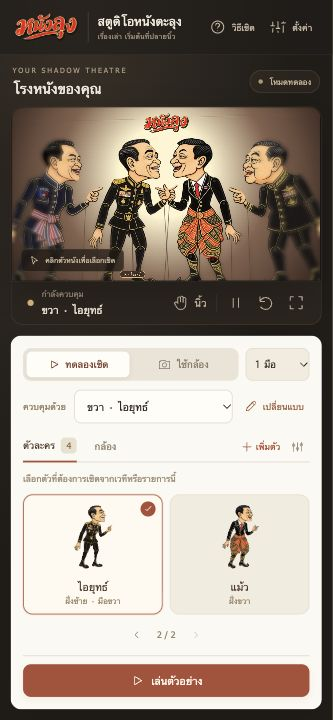
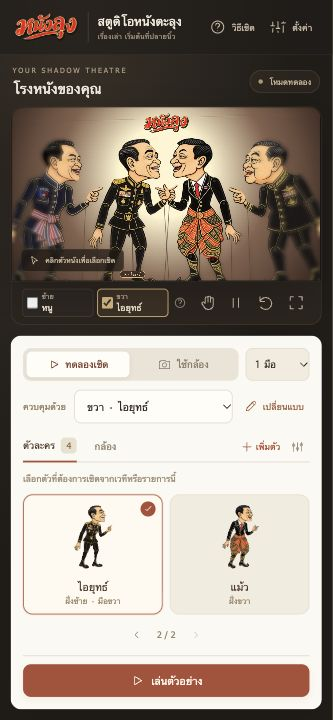
Control left and right puppets with stage toolbar checkboxes

Changed region(s): [[0.0601, 0.3972, 0.4505, 0.4583], [0.4805, 0.3972, 0.6607, 0.4583]]

diff --git a/src/studio-layout.ts b/src/studio-layout.ts
@@ -17,7 +17,10 @@ export function renderWorkspace(settings: Settings) {
         <div class="stage-paused" id="stage-paused" hidden><span>${icon("pause")} พักการเชิด</span></div>
         <button class="exit-stage" id="exit-stage">${icon("close")} ออกจากเวที</button>
       </div>
-      <div class="stage-toolbar"><button id="character-about" class="character-info" aria-label="รู้จักตัวละคร" aria-haspopup="dialog"><span class="control-dot"></span><span><small>กำลังควบคุม</small><strong id="character-name">เท่ง</strong></span>${icon("help")}</button><div class="toolbar-actions"><button id="toggle-fingers" class="text-button" aria-label="แสดงตัวควบคุมนิ้ว" aria-expanded="false" aria-controls="finger-panel">${icon("hand")}<span>นิ้ว</span></button><span class="toolbar-divider"></span><button id="pause" class="icon-button" aria-label="พักการเชิด" title="พัก / เล่นต่อ (Space)">${icon("pause")}</button><button id="reset-pose" class="icon-button" aria-label="รีเซ็ตท่าทาง" title="รีเซ็ตท่าทาง (R)">${icon("reset")}</button><button id="fullscreen" class="icon-button" aria-label="เต็มจอ" title="เต็มจอ (F)">${icon("expand")}</button></div></div>
+      <div class="stage-toolbar"><div class="stage-controls" role="group" aria-label="เลือกมือและตัวละครที่เชิด">
+        <div class="control-checks">${(["Left", "Right"] as const).map((side) => `<label class="hand-control-check" id="control-${side}-label"><input type="checkbox" id="control-${side}"/><span><small>${side === "Left" ? "ซ้าย" : "ขวา"}</small><strong id="control-${side}-name"></strong></span></label>`).join("")}</div>
+        <button id="character-about" class="icon-button control-about" aria-label="รู้จักตัวละคร" aria-haspopup="dialog">${icon("help")}</button>
+      </div><div class="toolbar-actions"><button id="toggle-fingers" class="text-button" aria-label="แสดงตัวควบคุมนิ้ว" aria-expanded="false" aria-controls="finger-panel">${icon("hand")}<span>นิ้ว</span></button><span class="toolbar-divider"></span><button id="pause" class="icon-button" aria-label="พักการเชิด" title="พัก / เล่นต่อ (Space)">${icon("pause")}</button><button id="reset-pose" class="icon-button" aria-label="รีเซ็ตท่าทาง" title="รีเซ็ตท่าทาง (R)">${icon("reset")}</button><button id="fullscreen" class="icon-button" aria-label="เต็มจอ" title="เต็มจอ (F)">${icon("expand")}</button></div></div>
       <section class="finger-panel" id="finger-panel" aria-label="ควบคุมนิ้วทั้งห้า">
         <div class="finger-panel-heading"><strong id="finger-description">ทดลองด้วยแถบเลื่อน</strong><span class="key-hint">กด <kbd>1</kbd>–<kbd>5</kbd> ค้างเพื่อทดลอง</span></div>
         <div class="finger-grid">${FINGERS.map((finger, i) => `<div class="finger-card" data-finger="${i}"><div class="finger-label"><label for="finger-${finger}">${fingerNames[i]}</label><span id="value-${i}">0%</span></div><span class="finger-action" id="action-label-${i}">${actionNames[settings.assignments[i]]}</span><div class="finger-meter"><span id="meter-${i}"></span></div><input id="finger-${finger}" class="finger-input" type="range" min="0" max="100" value="${i === 1 ? 16 : i === 2 ? 12 : 0}" aria-label="ทดลอง${fingerNames[i]}"/></div>`).join("")}</div>

diff --git a/src/main.ts b/src/main.ts
@@ -15,6 +15,7 @@ import { CameraTracker } from "./camera";
 import { StageRenderer, drawLandmarks, drawHands } from "./renderer";
 import { getCharacter, isCharacterId } from "./characters";
 import { demoPerformance } from "./performance";
+import { checkHandControl } from "./control-selection";
 import {
   HandEnsemble,
   activeHands,
@@ -188,6 +189,7 @@ function updateLabels() {
   demo = demos[settings.hand];
   settings.character = settings.characters[settings.hand];
   updateCharacter();
+  updateHandChecks();
   el<HTMLSelectElement>("hand-mode").value = settings.handMode;
   el("hand-choice-label").textContent = "ควบคุมด้วย";
   el("calibration-title").textContent =
@@ -239,9 +241,9 @@ function updateCharacter() {
   const character = getCharacter(settings.character);
   const hasActor = !!memberForHand(cast, settings.hand);
   el<HTMLButtonElement>("character-about").disabled = !hasActor;
-  el("character-name").textContent = !hasActor
-    ? "เลือกตัวบนเวที"
-    : `${settings.hand === "Left" ? "ซ้าย" : "ขวา"} · ${character.name}`;
+  el("character-about").title = hasActor
+    ? (character.fullName ?? character.name)
+    : "เลือกตัวบนเวที";
   el("accessory-control").hidden = !character.accessory;
   el("accessory-label").textContent =
     `แสดง${character.accessory?.name ?? "อุปกรณ์"}`;
@@ -671,6 +673,53 @@ function setPause(value: boolean) {
   el("stage-paused").hidden = !value;
   el("pause").innerHTML = icon(value ? "play" : "pause");
   el("pause").setAttribute("aria-label", value ? "เชิดต่อ" : "พักการเชิด");
+  updateHandChecks();
+}
+function updateHandChecks() {
+  for (const side of HAND_SIDES) {
+    const member = memberForHand(cast, side);
+    const name = member ? getCharacter(member.character).name : "เลือกตัว";
+    const input = el<HTMLInputElement>(`control-${side}`);
+    input.checked = !paused && activeHands(settings).includes(side) && !!member;
+    input.setAttribute(
+      "aria-label",
+      `เชิดมือ${side === "Left" ? "ซ้าย" : "ขวา"} · ${name}`,
+    );
+    el(`control-${side}-name`).textContent = name;
+    el(`control-${side}-label`).classList.toggle(
+      "focused",
+      settings.hand === side,
+    );
+  }
+}
+for (const side of HAND_SIDES) {
+  el(`control-${side}`).addEventListener("change", () => {
+    const result = checkHandControl(
+      cast,
+      settings,
+      side,
+      el<HTMLInputElement>(`control-${side}`).checked,
+      paused,
+    );
+    if (!result.accepted) {
+      updateHandChecks();
+      notify("เพิ่มตัวละครอีกหนึ่งตัว เพื่อเชิดสองมือพร้อมกัน");
+      return;
+    }
+    autoplay = false;
+    for (const [key, hand] of heldDemoKeys)
+      demos[hand].fingers[Number(key) - 1] = 0;
+    heldDemoKeys.clear();
+    ensemble.clear();
+    syncCastSettings();
+    for (const hand of HAND_SIDES) bindCastHand(hand);
+    setPause(result.paused);
+    save();
+    updateLabels();
+    syncDemoControls();
+    updateModeUI();
+    drawTrackingOverlay();
+  });
 }
 function syncDemoControls() {
   el<HTMLInputElement>("demo-x").value = String(demo.x * 100);

diff --git a/src/control-selection.test.ts b/src/control-selection.test.ts
@@ -1,0 +1,85 @@
+import { describe, expect, it } from "vitest";
+import { defaultSettings } from "./core";
+import { initialCast, memberForHand } from "./cast";
+import { activeHands } from "./ensemble";
+import { checkHandControl } from "./control-selection";
+
+describe("toolbar hand checkboxes", () => {
+  it("enables the second hand without changing the first actor, pose or calibration", () => {
+    const settings = defaultSettings(),
+      cast = initialCast(settings);
+    settings.profiles.Left.calibrated = true;
+    memberForHand(cast, "Right")!.pose.mouth = 0.8;
+    const before = structuredClone(cast);
+    expect(checkHandControl(cast, settings, "Left", true, false)).toEqual({
+      accepted: true,
+      paused: false,
+    });
+    expect(activeHands(settings)).toEqual(["Left", "Right"]);
+    expect(settings.hand).toBe("Left");
+    expect(cast).toEqual(before);
+    expect(settings.profiles.Left.calibrated).toBe(true);
+  });
+  it("unchecks one hand while the other continues and retains both bindings", () => {
+    const settings = defaultSettings(),
+      cast = initialCast(settings);
+    settings.handMode = "dual";
+    const before = structuredClone(cast);
+    expect(checkHandControl(cast, settings, "Right", false, false).paused).toBe(
+      false,
+    );
+    expect(activeHands(settings)).toEqual(["Left"]);
+    expect(cast).toEqual(before);
+  });
+  it("pauses when the last box is cleared and resumes only the checked hand", () => {
+    const settings = defaultSettings(),
+      cast = initialCast(settings);
+    expect(checkHandControl(cast, settings, "Right", false, false).paused).toBe(
+      true,
+    );
+    expect(checkHandControl(cast, settings, "Left", true, true).paused).toBe(
+      false,
+    );
+    expect(activeHands(settings)).toEqual(["Left"]);
+  });
+  it("assigns an unbound actor when checking a second hand", () => {
+    const settings = defaultSettings(),
+      cast = initialCast(settings);
+    cast.controls.Left = null;
+    expect(checkHandControl(cast, settings, "Left", true, false).accepted).toBe(
+      true,
+    );
+    expect(cast.controls).toEqual({
+      Left: "initial-Left",
+      Right: "initial-Right",
+    });
+    expect(settings.handMode).toBe("dual");
+  });
+  it("does not let two hands control the same actor", () => {
+    const settings = defaultSettings(),
+      cast = initialCast(settings);
+    cast.members = cast.members.filter(
+      (member) => member.id === cast.controls.Right,
+    );
+    cast.controls.Left = null;
+    const before = structuredClone({ settings, cast });
+    expect(checkHandControl(cast, settings, "Left", true, false)).toEqual({
+      accepted: false,
+      paused: false,
+    });
+    expect({ settings, cast }).toEqual(before);
+  });
+  it("can transfer a single paused actor to the other hand", () => {
+    const settings = defaultSettings(),
+      cast = initialCast(settings);
+    cast.members = cast.members.filter(
+      (member) => member.id === cast.controls.Right,
+    );
+    cast.controls.Left = null;
+    expect(checkHandControl(cast, settings, "Left", true, true).accepted).toBe(
+      true,
+    );
+    expect(cast.controls).toEqual({ Left: "initial-Right", Right: null });
+    expect(activeHands(settings)).toEqual(["Left"]);
+  });
+});

diff --git a/src/style.css b/src/style.css
@@ -3227,6 +3227,120 @@ input[type="range"]:disabled {
     min-height: 10px;
   }
 }
+.stage-controls {
+  display: flex;
+  align-items: center;
+  flex: 1;
+  min-width: 0;
+  gap: 8px;
+}
+.control-checks {
+  display: grid;
+  grid-template-columns: repeat(2, minmax(0, 1fr));
+  gap: 8px;
+  flex: 1;
+  min-width: 0;
+  max-width: 320px;
+}
+.hand-control-check {
+  display: grid;
+  grid-template-columns: 16px minmax(0, 1fr);
+  align-items: center;
+  gap: 9px;
+  padding: 5px 10px;
+  border: 1px solid #a68c6d30;
+  border-radius: 8px;
+  cursor: pointer;
+  background: #ffffff03;
+  transition:
+    background 0.15s,
+    border-color 0.15s;
+}
+.hand-control-check:has(input:checked) {
+  background: #a77a4324;
+  border-color: #c4a16a70;
+}
+.hand-control-check.focused:has(input:checked) {
+  border-color: var(--gold);
+}
+.hand-control-check:hover {
+  background: #a77a4333;
+}
+.hand-control-check input {
+  width: 16px;
+  height: 16px;
+  margin: 0;
+  accent-color: var(--gold);
+  cursor: pointer;
+}
+.hand-control-check span {
+  min-width: 0;
+}
+.hand-control-check small {
+  display: block;
+  font-size: 9px;
+  line-height: 1.3;
+  color: #b6a58d;
+}
+.hand-control-check strong {
+  display: block;
+  overflow: hidden;
+  text-overflow: ellipsis;
+  white-space: nowrap;
+  font-weight: 500;
+  font-size: 12px;
+  line-height: 1.5;
+  color: #f1e5d0;
+}
+.control-about {
+  flex: none;
+  width: 28px;
+  height: 28px;
+  padding: 6px;
+  opacity: 0.75;
+}
+@media (max-width: 760px), (max-height: 620px) {
+  .stage-controls {
+    gap: 3px;
+  }
+  .control-checks {
+    gap: 4px;
+  }
+  .hand-control-check {
+    grid-template-columns: 13px minmax(0, 1fr);
+    padding: 3px 4px;
+    gap: 4px;
+    border-radius: 5px;
+  }
+  .hand-control-check input {
+    width: 13px;
+    height: 13px;
+  }
+  .hand-control-check small {
+    font-size: 8px;
+  }
+  .hand-control-check strong {
+    font-size: 10px;
+    line-height: 1.35;
+  }
+  .control-about {
+    width: 20px;
+    height: 26px;
+    padding: 3px;
+  }
+  .control-about svg {
+    width: 14px;
+    height: 14px;
+  }
+  #toggle-fingers {
+    width: 27px;
+    padding: 4px;
+  }
+  #toggle-fingers span,
+  .toolbar-divider {
+    display: none;
+  }
+}
 @media (prefers-reduced-motion: reduce) {
   *,
   *:before,

diff --git a/src/control-selection.ts b/src/control-selection.ts
@@ -1,0 +1,35 @@
+import type { HandSide, Settings } from "./core";
+import { memberForHand, selectMember, type CastState } from "./cast";
+import { activeHands } from "./ensemble";
+
+/** The toolbar checkboxes enable hand/actor pairs; an empty selection pauses. */
+export function checkHandControl(
+  cast: CastState,
+  settings: Settings,
+  side: HandSide,
+  enabled: boolean,
+  paused: boolean,
+): { accepted: boolean; paused: boolean } {
+  const other = side === "Left" ? "Right" : "Left";
+  const otherEnabled =
+    !paused &&
+    activeHands(settings).includes(other) &&
+    !!memberForHand(cast, other);
+  if (enabled) {
+    if (!memberForHand(cast, side)) {
+      const available = cast.members.filter(
+        (member) => !otherEnabled || member.id !== cast.controls[other],
+      );
+      const member =
+        available.find((member) => member.side === side) ?? available[0];
+      if (!member) return { accepted: false, paused };
+      selectMember(cast, member.id, side, false);
+    }
+    settings.hand = side;
+    settings.handMode = otherEnabled ? "dual" : "single";
+    return { accepted: true, paused: false };
+  }
+  settings.hand = otherEnabled ? other : side;
+  settings.handMode = "single";
+  return { accepted: true, paused: !otherEnabled };
+}

diff --git a/README.md b/README.md
@@ -8,6 +8,8 @@
 
 เวทีขนาดใหญ่คู่กับแผงตัวละคร/กล้อง โทนถ่าน–ครีม–สีชาด ปุ่มเพิ่มตัวและเปลี่ยนแบบแยกกัน แถบนิ้วเปิด/ปิดได้ หน้าจอหลักไม่มี scrollbar ทั้งคอมและมือถือ ดู [การวิเคราะห์และออกแบบ UX/UI](docs/UX_REDESIGN.md)
 
+ช่องเช็ก **ซ้าย / ขวา** ใต้เวทีแสดงชื่อตัวละครของแต่ละมือ เช็กหนึ่งข้างเพื่อเชิดหนึ่งตัว เช็กสองข้างเพื่อเชิดพร้อมกันสองตัว เอาเครื่องหมายออกเพื่อพักตัวนั้น และเอาออกทั้งสองข้างเพื่อพักทั้งหมด สถานะตรงกับเมนูหนึ่งมือ/สองมือและปุ่มพัก
+
 ## ตัวละครหลักห้าตัวและคลังตัวหนัง
 
 เลือก **เพิ่มตัว** เพื่อเปิดคลังภาพทั้ง 9 แบบ: **เท่ง ไอยุทธ์ แม้ว วิตร หนู หนูนุ้ย สีแก้ว ยอดทอง และขวัญเมือง** ส่วน **เปลี่ยนแบบ** ใช้เปลี่ยนรูปลักษณ์ของตัวที่เลือก โดยคงการปรับเทียบมือ หน้าที่นิ้ว และตำแหน่งการเชิด ดู [แนวทางออกแบบชุดหนังตะลุงร่วมสมัย](docs/SOUTHERN_CHARACTER_STYLE.md)

diff --git a/docs/VERIFICATION.md b/docs/VERIFICATION.md
@@ -1,5 +1,11 @@
 # ผลตรวจต้นแบบ NangLung Studio
 
+## Checkbox ซ้าย–ขวาใต้เวที — 1 พฤศจิกายน 2026
+
+- เปลี่ยนข้อความตัวที่กำลังควบคุมเป็นช่องเช็กซ้ายและขวาพร้อมชื่อตัวละคร เลือกได้หนึ่งหรือสองข้าง และพักทั้งหมดเมื่อเอาเครื่องหมายออกครบ
+- เพิ่มทดสอบการเปิดสองมือ พักมือเดียว พักทั้งหมด เชิดต่อ ผูกตัวที่ยังว่าง และป้องกันสองมือเชิดตัวเดียว รวมชุดทดสอบ 91 กรณีผ่าน
+- ตรวจ UI จริงว่าช่องเช็กตรงกับเมนูจำนวนมือ การพัก/เชิดต่อ และชื่อหลังสลับตัวละคร พร้อมตรวจแถบเครื่องมือที่ 320×480, 375×812, 568×320, 844×390, 1366×768 ไม่มี overflow
+
 ## ออกแบบ UX/UI ใหม่ — 1 พฤศจิกายน 2026
 
 - เวทีและแผงควบคุมออกแบบใหม่โทนถ่าน–ครีม–สีชาด มีรายการตัวละครบนเวที แยกเพิ่มตัว/เปลี่ยนแบบ แผงตัวละคร/กล้อง และแถบนิ้วยุบได้ ดู [การวิเคราะห์และขั้นตอนใหม่](UX_REDESIGN.md)

diff --git a/docs/UX_REDESIGN.md b/docs/UX_REDESIGN.md
@@ -24,6 +24,8 @@
 
 ## ขั้นตอนหลัก
 
+แถบใต้เวทีใช้ checkbox **ซ้าย / ขวา** พร้อมชื่อตัวละครที่ผูกกับมือนั้น เลือกหนึ่งข้างเพื่อเชิดหนึ่งตัว เลือกสองข้างเพื่อเชิดพร้อมกัน เอาออกหนึ่งข้างจะคงท่าตัวนั้น อีกข้างยังเชิดต่อได้ เอาออกทั้งหมดจะพักทั้งเวที การเลือกข้างที่ยังไม่ได้ผูกตัวละครจะใช้ตัวที่ว่าง โดยไม่แย่งตัวที่อีกมือกำลังเชิดอยู่
+
 1. **เตรียมตัวหนัง:** เพิ่มตัว → เลือกฝั่ง → เลือกภาพ ระบบเลือกตัวใหม่ให้พร้อมเชิดทันที
 2. **เลือกควบคุม:** เลือกมือซ้ายหรือขวา → คลิกตัวบนเวทีหรือรายการ ปุ่มเปลี่ยนแบบทำงานกับตัวที่เลือกเท่านั้น
 3. **ทดลอง:** ใช้แถบนิ้วหรือเล่นตัวอย่าง ปุ่มพัก รีเซ็ต และเต็มจออยู่ใต้เวที
